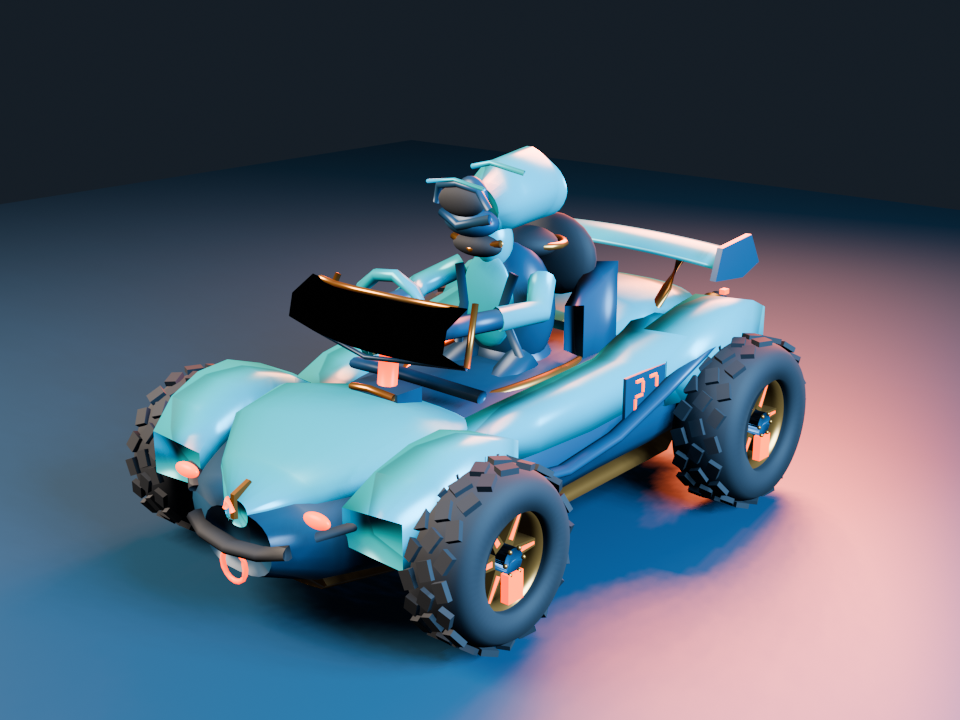
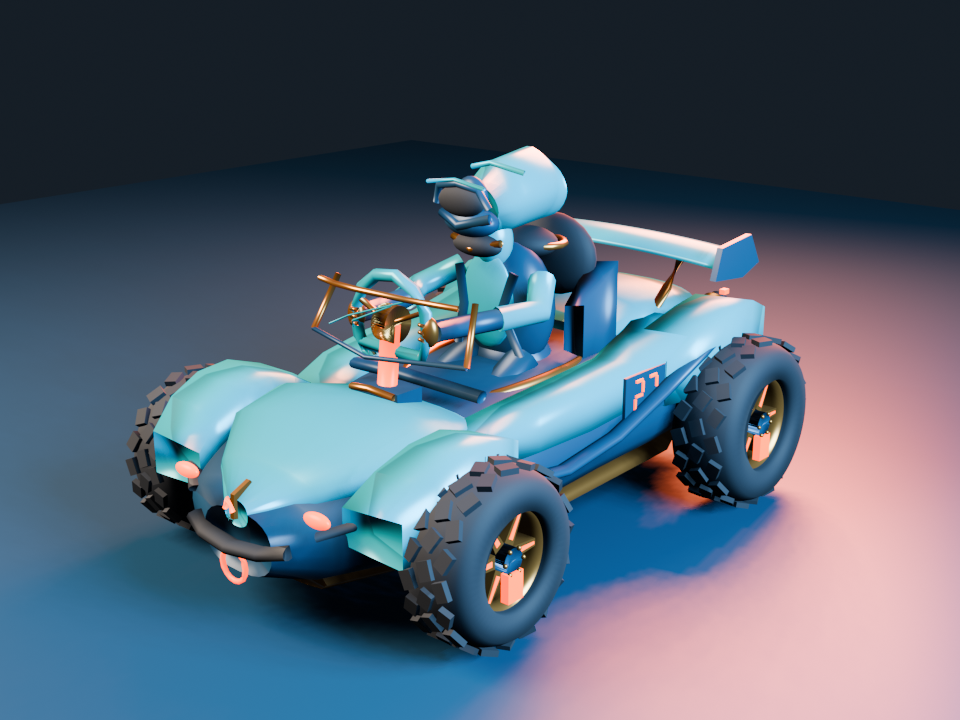
art(hero-kart): preserve open aeroscreen WIP

Changed region(s): [[0.2812, 0.3667, 0.5625, 0.5806], [0.25, 0.7028, 0.2812, 0.7333]]

diff --git a/scripts/blender/hero_kart_v2_build.py b/scripts/blender/hero_kart_v2_build.py
@@ -572,25 +572,13 @@ def create_cockpit_driver(cfg):
     triangulated_box("SteeringDashBracket",(0,-.49,.565),(.22,.12,.09),"paint_secondary")
     tube_path("SteeringDashFlange",[(-.10,-.555,.60),(0,-.57,.615),(.10,-.555,.60)],.016,"metal_warm",cfg["tube_sides"],.012)
     if cfg["level"] == 0:
-        xs=[-.36,-.27,-.18,-.09,0,.09,.18,.27,.36]
-        screen_verts=[]
-        rows=((.74,-.50,0.0),(.81,-.60,0.0),(.89,-.58,0.0),(.94,-.48,0.0))
-        for x in xs:
-            u=abs(x)/.36; bend=1.0-u*u
-            for z,y,bulge in rows:
-                screen_verts.append((x,y-.06*bend+bulge*bend,z))
-        screen_faces=[]
-        for i in range(len(xs)-1):
-            a=i*4; b=(i+1)*4
-            for r in range(3): screen_faces.append((a+r,b+r,b+r+1,a+r+1))
-        screen=mesh_object("MiniWindshieldLens",screen_verts,screen_faces,"cockpit_glass",True)
-        solid=screen.modifiers.new("Safety glass thickness","SOLIDIFY"); solid.thickness=.006
-        bevel=screen.modifiers.new("Rounded glass edge","BEVEL"); bevel.width=.018; bevel.segments=3
+        # Open aeroscreen: no broad face, so Eevee cannot turn the cockpit into a black panel.
         tube_path("MiniWindshieldLeftFrame",[(-.36,-.485,.74),(-.32,-.395,.93)],.012,"metal_warm",cfg["tube_sides"],.010)
         tube_path("MiniWindshieldRightFrame",[(.36,-.485,.74),(.32,-.395,.93)],.012,"metal_warm",cfg["tube_sides"],.010)
         tube_path("MiniWindshieldTop",[(-.32,-.48,.93),(-.16,-.56,.95),(0,-.62,.97),(.16,-.56,.95),(.32,-.48,.93)],.012,"metal_warm",cfg["tube_sides"],.010)
         tube_path("MiniWindshieldBase",[(-.36,-.485,.74),(0,-.585,.73),(.36,-.485,.74)],.010,"paint_secondary",cfg["tube_sides"],.008)
         tube_path("MiniWindshieldReflection",[(-.26,-.50,.78),(-.05,-.61,.87),(.16,-.50,.94)],.004,"paint_primary",cfg["tube_sides"],.003)
+        tube_path("MiniWindshieldReflection",[(-.12,-.52,.80),(-.02,-.62,.86),(.08,-.54,.91)],.003,"paint_primary",cfg["tube_sides"],.003)
     for end in [(-.14,-.46,.88),(.14,-.46,.88),(0,-.46,.725)]:
         tube_path("SteeringSpoke",[(0,-.465,.82),end],.014,"metal_warm",cfg["tube_sides"],.009)
     # Arms with clear elbows and hands at exact 9-and-3 grip positions.
